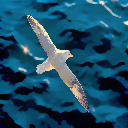
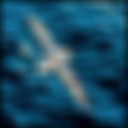
iterations added

diff --git a/assignment-3-segmentation/2/code/myMainScript.py b/assignment-3-segmentation/2/code/myMainScript.py
@@ -1,7 +1,9 @@
 filenames = ["baboonColor.png","bird.jpg","flower.jpg"]
 foldername = "../data/"
+iterations = [30,40,40]
+
 
 from myMeanShift import meanShift
 
-for image in filenames:
-    meanShift(foldername+image)
+for i in range(len(filenames)):
+    meanShift(foldername+filenames[i],intensity_sigma=3.0,num_iter=iterations[i])
